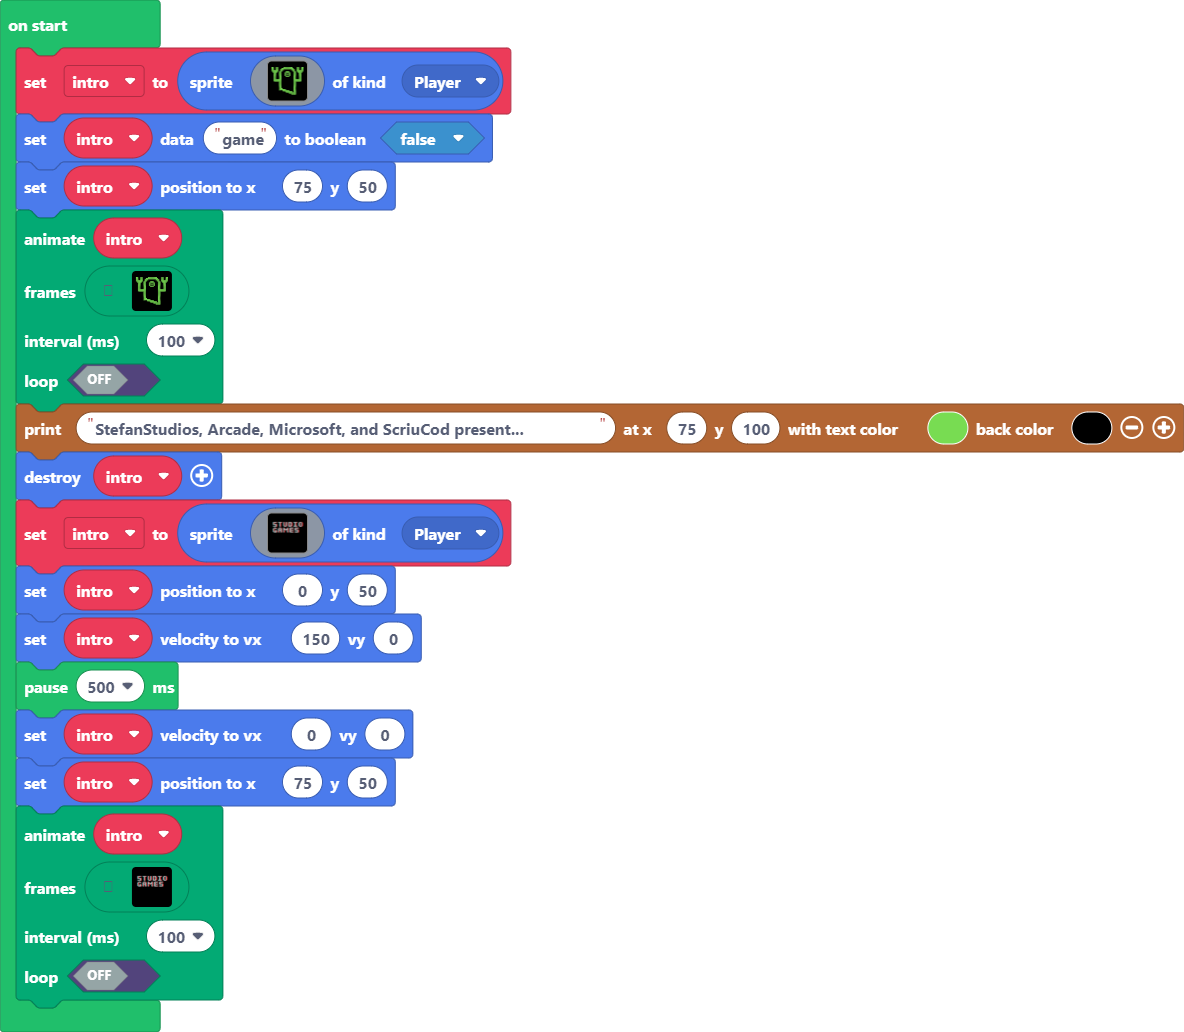
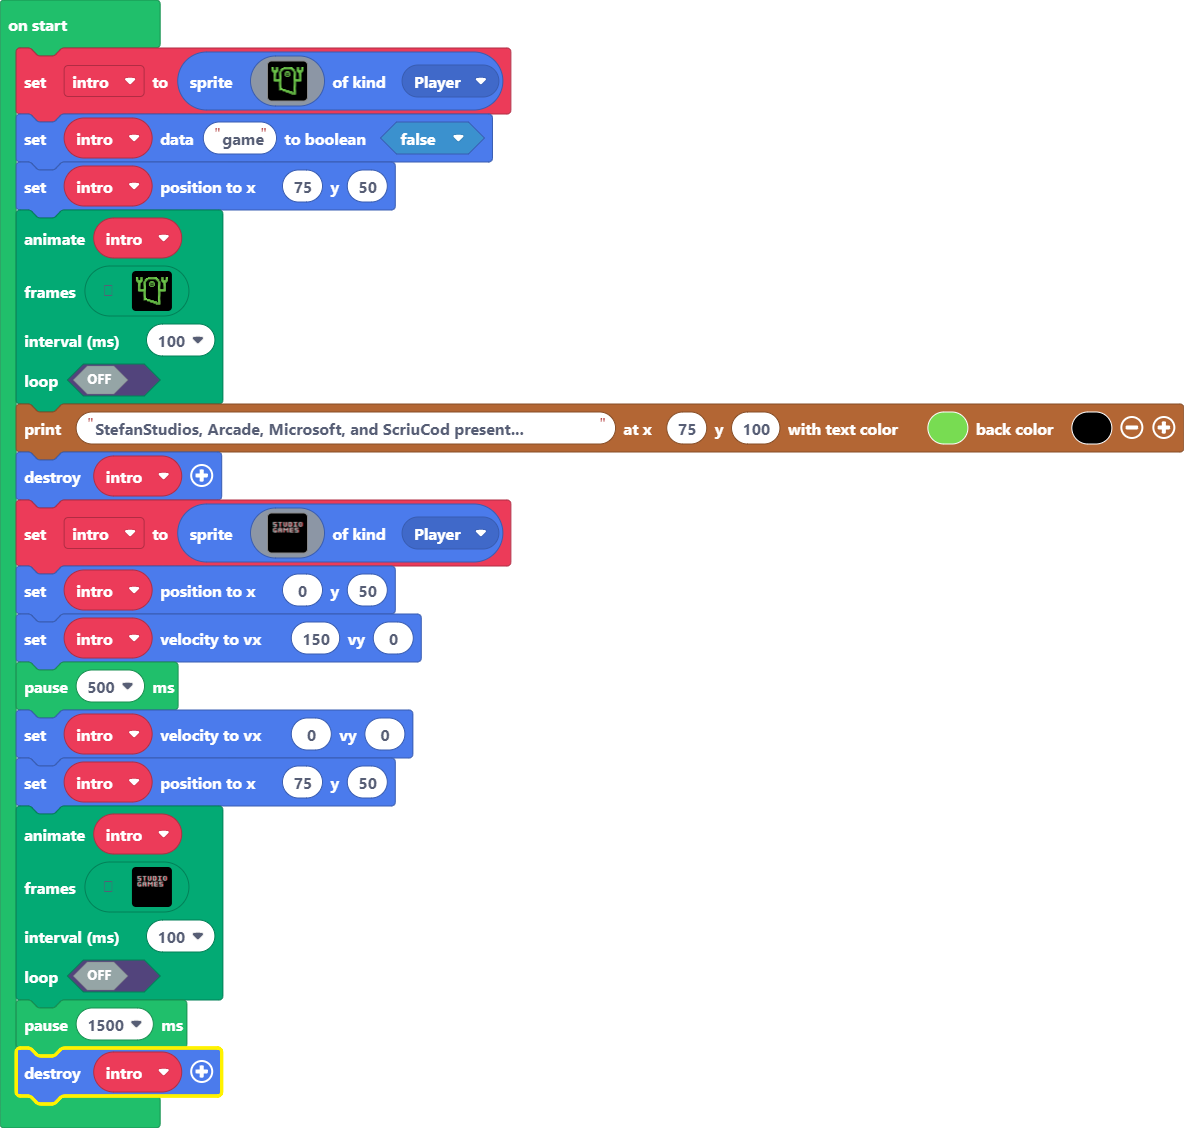
(still working on intro) Now it will get destroyed when the intro is done.

Changed region(s): [[0.0, 0.0, 1.0, 0.9922]]

diff --git a/main.ts b/main.ts
@@ -1021,3 +1021,5 @@ intro,
 100,
 false
 )
+pause(1500)
+intro.destroy()
